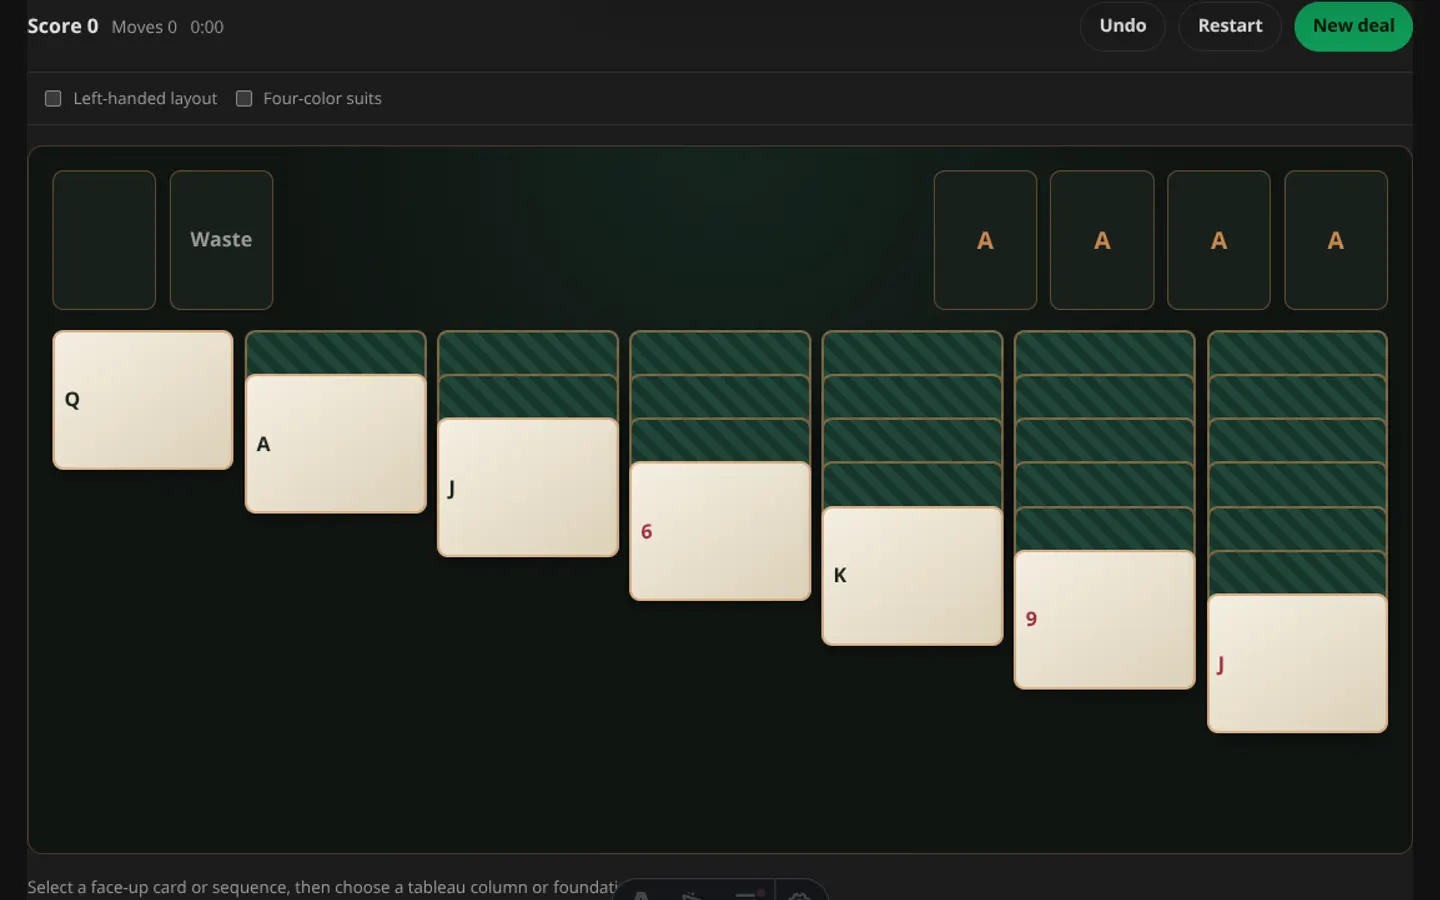
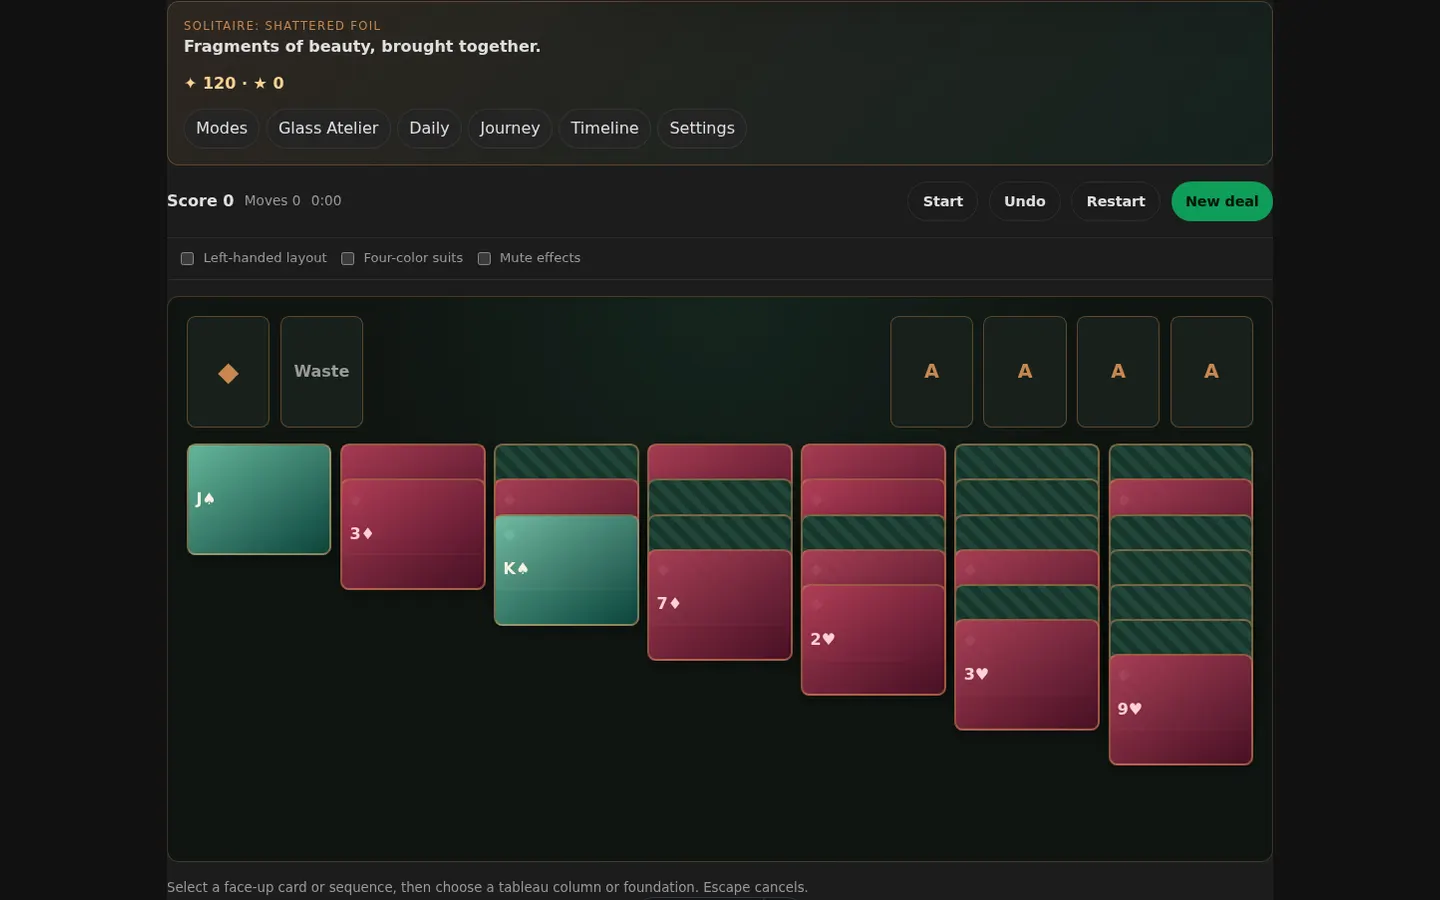
Complete parity validation and refreshed game captures

diff --git a/tests/e2e/shattered-parity.spec.ts b/tests/e2e/shattered-parity.spec.ts
@@ -1,6 +1,7 @@
-import{expect,test}from'@playwright/test';import{denyOptionalServices}from'./helpers/consent';
+import AxeBuilder from '@axe-core/playwright';import{expect,test}from'@playwright/test';import{denyOptionalServices}from'./helpers/consent';
 test.beforeEach(async({page})=>{await denyOptionalServices(page);await page.goto('/games/shattered-foil/');});
 test('all five modes open as playable rule-specific boards',async({page})=>{for(const [mode,marker]of[['spider','.sf-ten'],['freecell','.sf-eight'],['tripeaks','.sf-mosaic'],['pyramid','.sf-pyramid'],['klondike','.sf-board--klondike']]as const){await page.getByRole('button',{name:'Modes'}).click();await page.locator(`[data-mode="${mode}"]`).click();await expect(page.locator(`.mode-${mode}`)).toBeVisible();await expect(page.locator(marker)).toBeVisible();if(mode==='spider'){await page.locator('[data-alt-stock]').click();await expect(page.locator('[data-alt-stock]')).toContainText('40');}if(mode==='freecell'){await page.locator('.sf-column').first().locator('.sf-card').last().click();await page.locator('[data-alt-cell="0"]').click();await expect(page.locator('[data-alt-cell="0"]')).not.toHaveText('Free');}if(mode==='tripeaks'){await page.locator('[data-alt-stock]').click();await expect(page.locator('[data-alt-stock]')).toContainText('22');}if(mode==='pyramid'){await page.locator('[data-alt-stock]').click();await expect(page.locator('[data-pyramid-waste]')).not.toContainText('—');}}});
 test('daily, journey, atelier and timeline surfaces are live',async({page})=>{await page.getByRole('button',{name:'Daily'}).click();await expect(page.getByRole('heading',{name:'Daily Window Challenge'})).toBeVisible();await expect(page.locator('.sf-calendar span')).toHaveCount(new Date(Date.UTC(new Date().getUTCFullYear(),new Date().getUTCMonth()+1,0)).getUTCDate());await page.locator('[data-daily]').click();await expect(page.locator('.mode-klondike')).toBeVisible();await page.getByRole('button',{name:'Journey'}).click();await expect(page.getByRole('heading',{name:'Chronos: The Realm of Cards'})).toBeVisible();await expect(page.locator('.sf-realm')).toHaveCount(5);await page.locator('[data-panel-close]').click();await page.getByRole('button',{name:'Glass Atelier'}).click();await expect(page.locator('[data-cardback]')).toHaveCount(24);await page.locator('[data-cardback="tiffany_flora"]').click();await expect(page.getByText('Tiffany Dragonfly equipped.')).toBeAttached();await page.getByRole('button',{name:'Timeline'}).click();await expect(page.getByRole('heading',{name:'Move Timeline & Analysis'})).toBeVisible();});
 test('settings integrate atmosphere, audio, haptics, consent and data transfer',async({page})=>{await page.locator('[data-panel="settings"]').click();await page.locator('[data-atmosphere]').selectOption('sapphire');await expect(page.locator('.sf')).toHaveClass(/atmosphere-sapphire/);await page.locator('[data-panel="settings"]').click();await page.locator('[data-music]').check();await page.locator('[data-music-volume]').fill('40');await page.locator('[data-haptics]').check();const download=page.waitForEvent('download');await page.locator('[data-export]').click();expect((await download).suggestedFilename()).toBe('shattered-foil-export-v1.json');await page.locator('[data-import]').setInputFiles({name:'save.json',mimeType:'application/json',buffer:Buffer.from(JSON.stringify({format:'nocharge-shattered-foil',version:1,exportedAt:new Date().toISOString(),stores:{}}))});await expect(page.locator('[data-data-status]')).toHaveText('Import complete.');await page.locator('[data-privacy]').click();await expect(page.locator('[data-consent-modal]')).toBeVisible();});
 test('IndexedDB autosave resumes the latest deal',async({page})=>{await page.getByRole('button',{name:/Stock, 24 cards/}).click();await expect(page.getByRole('button',{name:/Stock, 23 cards/})).toBeVisible();await page.locator('[data-panel="timeline"]').click();await page.locator('[data-step-back]').click();await page.locator('[data-restore-step]').click();await expect(page.getByRole('button',{name:/Stock, 24 cards/})).toBeVisible();await page.getByRole('button',{name:/Stock, 24 cards/}).click();await page.waitForTimeout(100);await page.reload();await expect(page.getByRole('button',{name:'Resume'})).toBeVisible();await page.getByRole('button',{name:'Resume'}).click();await expect(page.getByRole('button',{name:/Stock, 23 cards/})).toBeVisible();});
+test('all Shattered Foil modes pass automated accessibility scans',async({page})=>{for(const mode of ['klondike','spider','freecell','tripeaks','pyramid']){await page.locator('[data-panel="modes"]').click();await page.locator(`[data-mode="${mode}"]`).click();const results=await new AxeBuilder({page}).include('.sf').analyze();expect(results.violations,`${mode}: ${JSON.stringify(results.violations)}`).toEqual([]);}});

diff --git a/docs/SHATTERED_FOIL_ACCESSIBILITY.md b/docs/SHATTERED_FOIL_ACCESSIBILITY.md
@@ -1,0 +1,5 @@
+# Shattered Foil accessibility verification
+
+Automated Playwright/axe coverage scans the entry and each of the five active mode boards. Browser tests exercise keyboard activation, visible focus, invalid-move announcements, left-handed mode, four-color suits, consent layering, and mobile layout. Card controls expose rank, suit, color, face state, pile context, and selection state. Drag is optional.
+
+Manual assistive-technology applications are not installed in the CI/sandbox environment. NVDA/Firefox, VoiceOver/Safari and iOS, and TalkBack/Android remain owner-device verification items before production release; this is an environment limitation, not a hidden feature deferral. The implementation retains native buttons, landmarks, live regions, reduced motion, responsive overflow, and sound-independent state for those tests.

diff --git a/docs/ART_ASSETS.md b/docs/ART_ASSETS.md
@@ -53,8 +53,8 @@ All packages are original Quiet Arcade work. Raster covers are reproducible with
 | shattered-foil / `guide-header.webp` | 1280×640 | 47.0 KB |
 | shattered-foil / `icon.svg` | vector | 0.3 KB |
 | shattered-foil / `rules-diagram.svg` | vector | 1.5 KB |
-| shattered-foil / `screenshot-desktop.webp` | 1440×900 | 23.8 KB |
-| shattered-foil / `screenshot-mobile.webp` | 720×1280 | 16.1 KB |
+| shattered-foil / `screenshot-desktop.webp` | 1440×900 | 28.7 KB |
+| shattered-foil / `screenshot-mobile.webp` | 720×1280 | 23.7 KB |
 | shattered-foil / `social-card.jpg` | 1200×630 | 20.5 KB |
 | shattered-foil / `social-card.webp` | 1200×630 | 44.9 KB |
 | shattered-foil / `source.svg` | vector | 2.8 KB |
